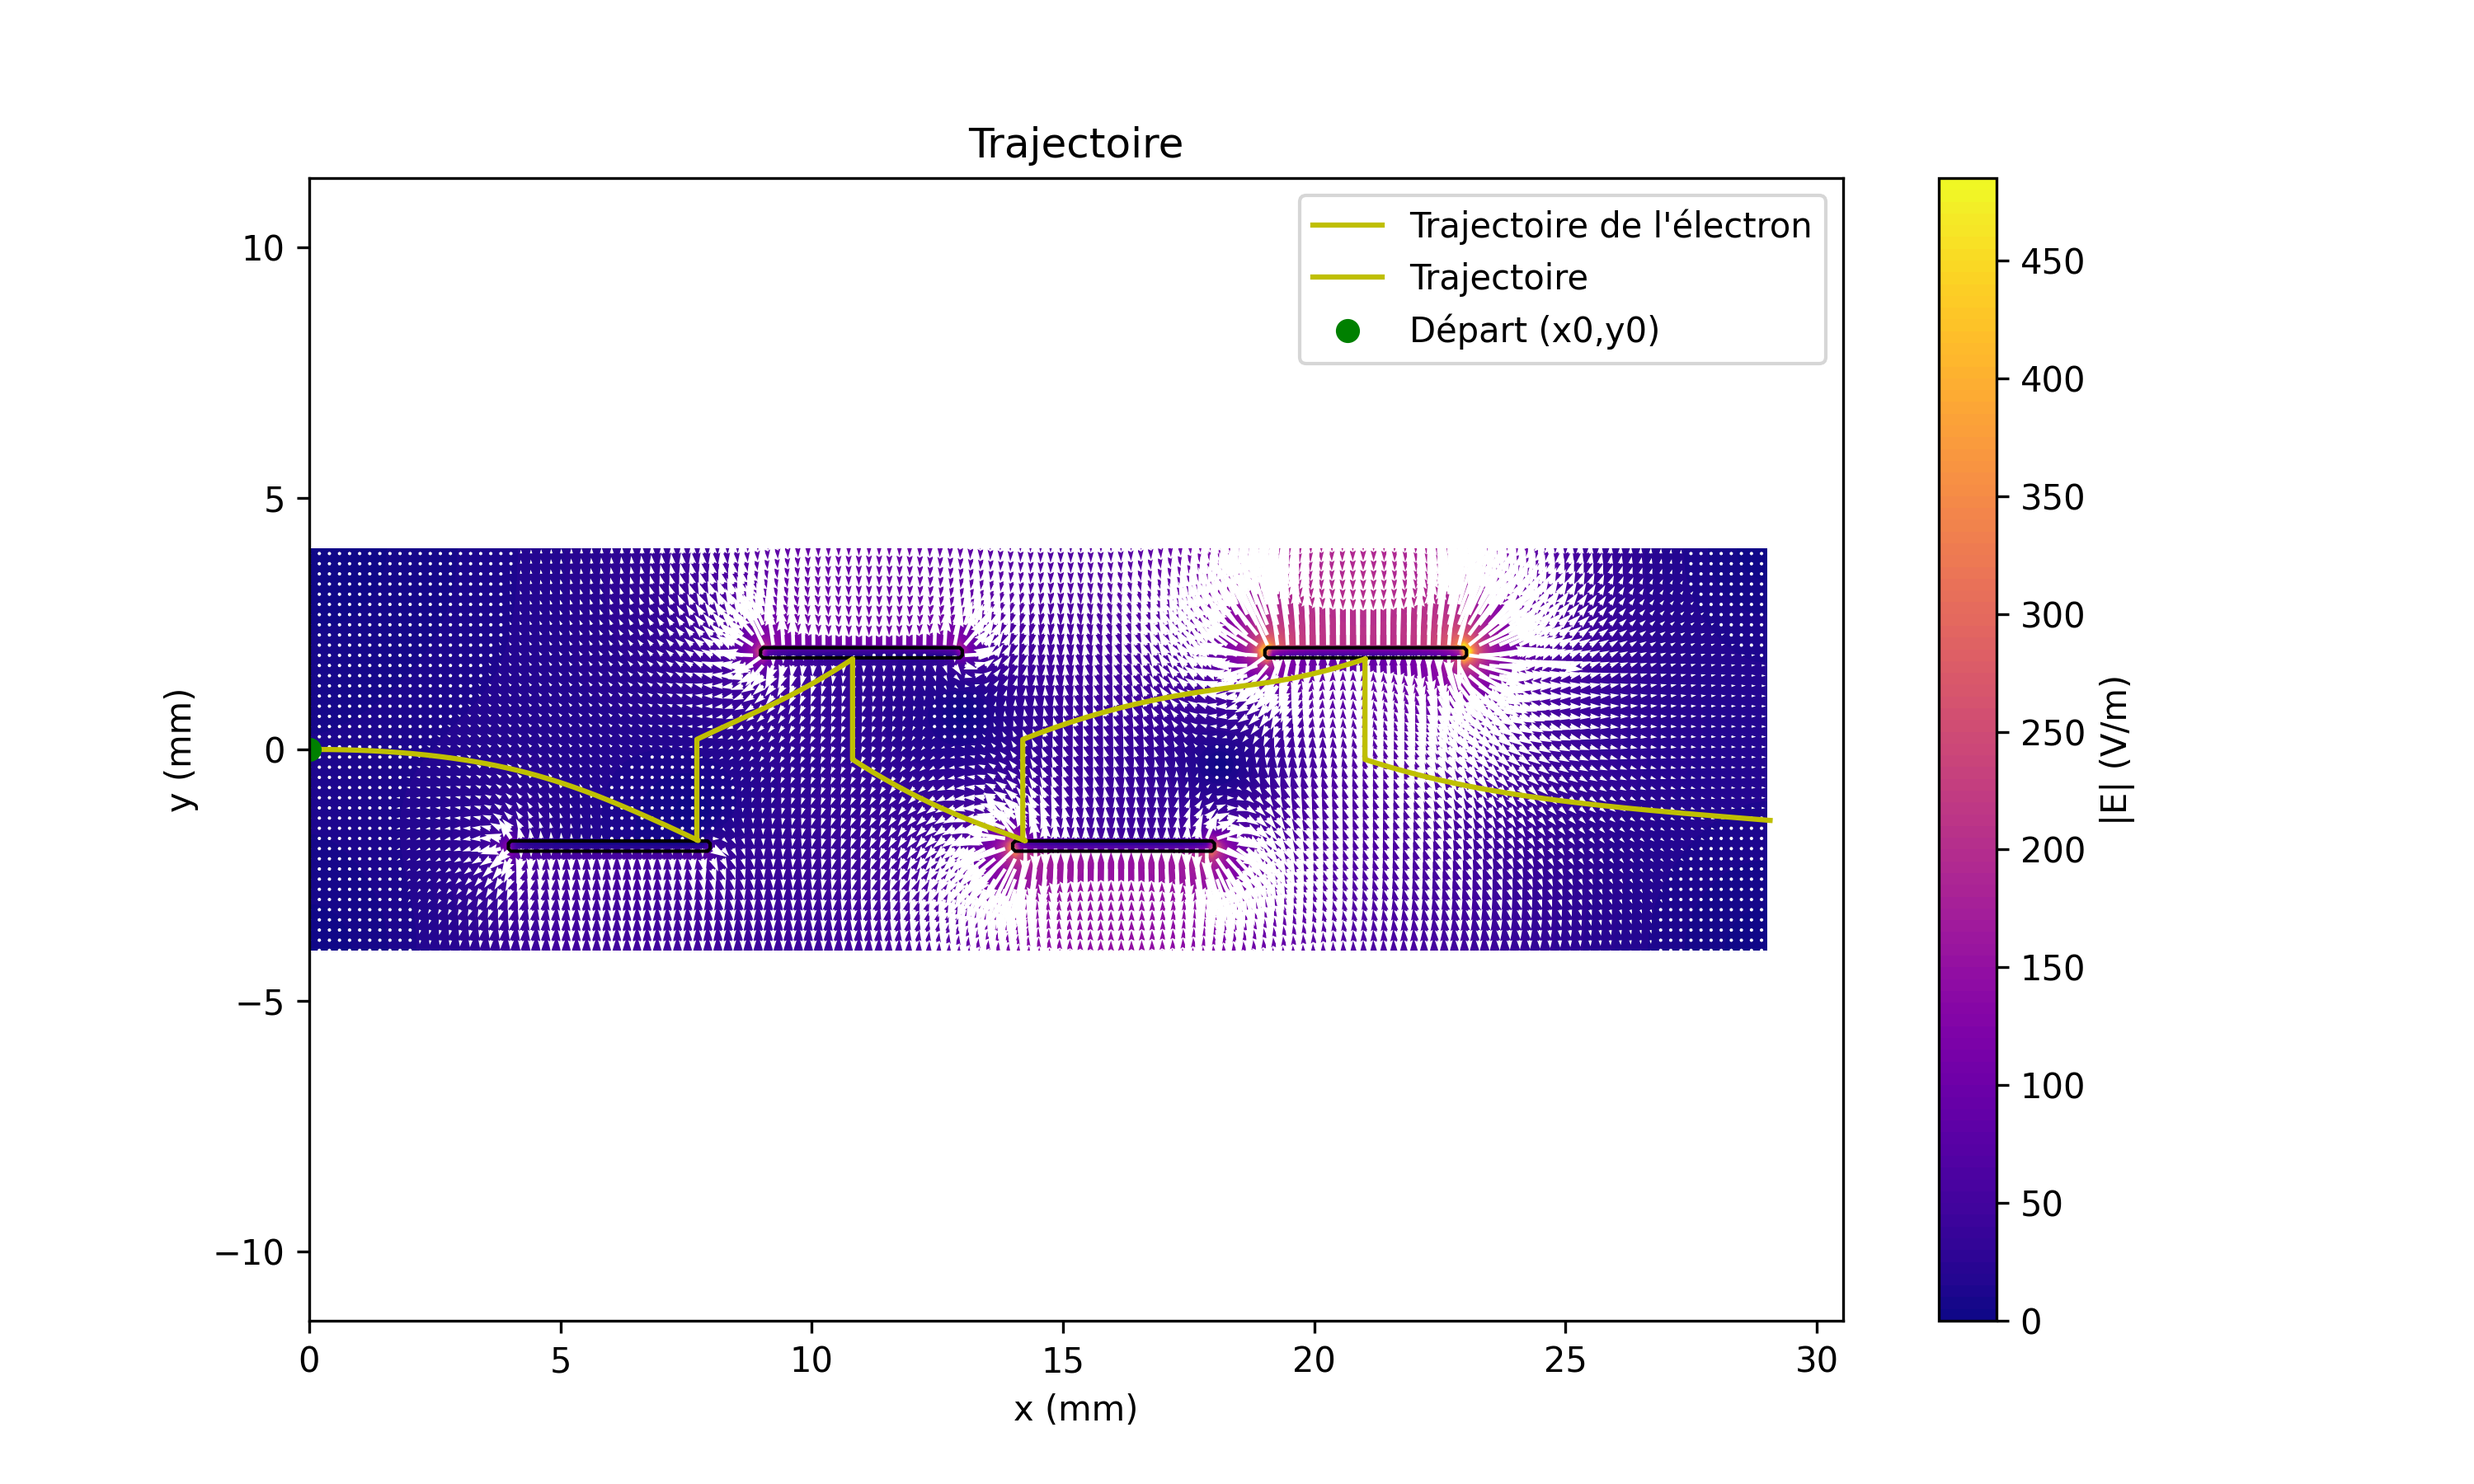
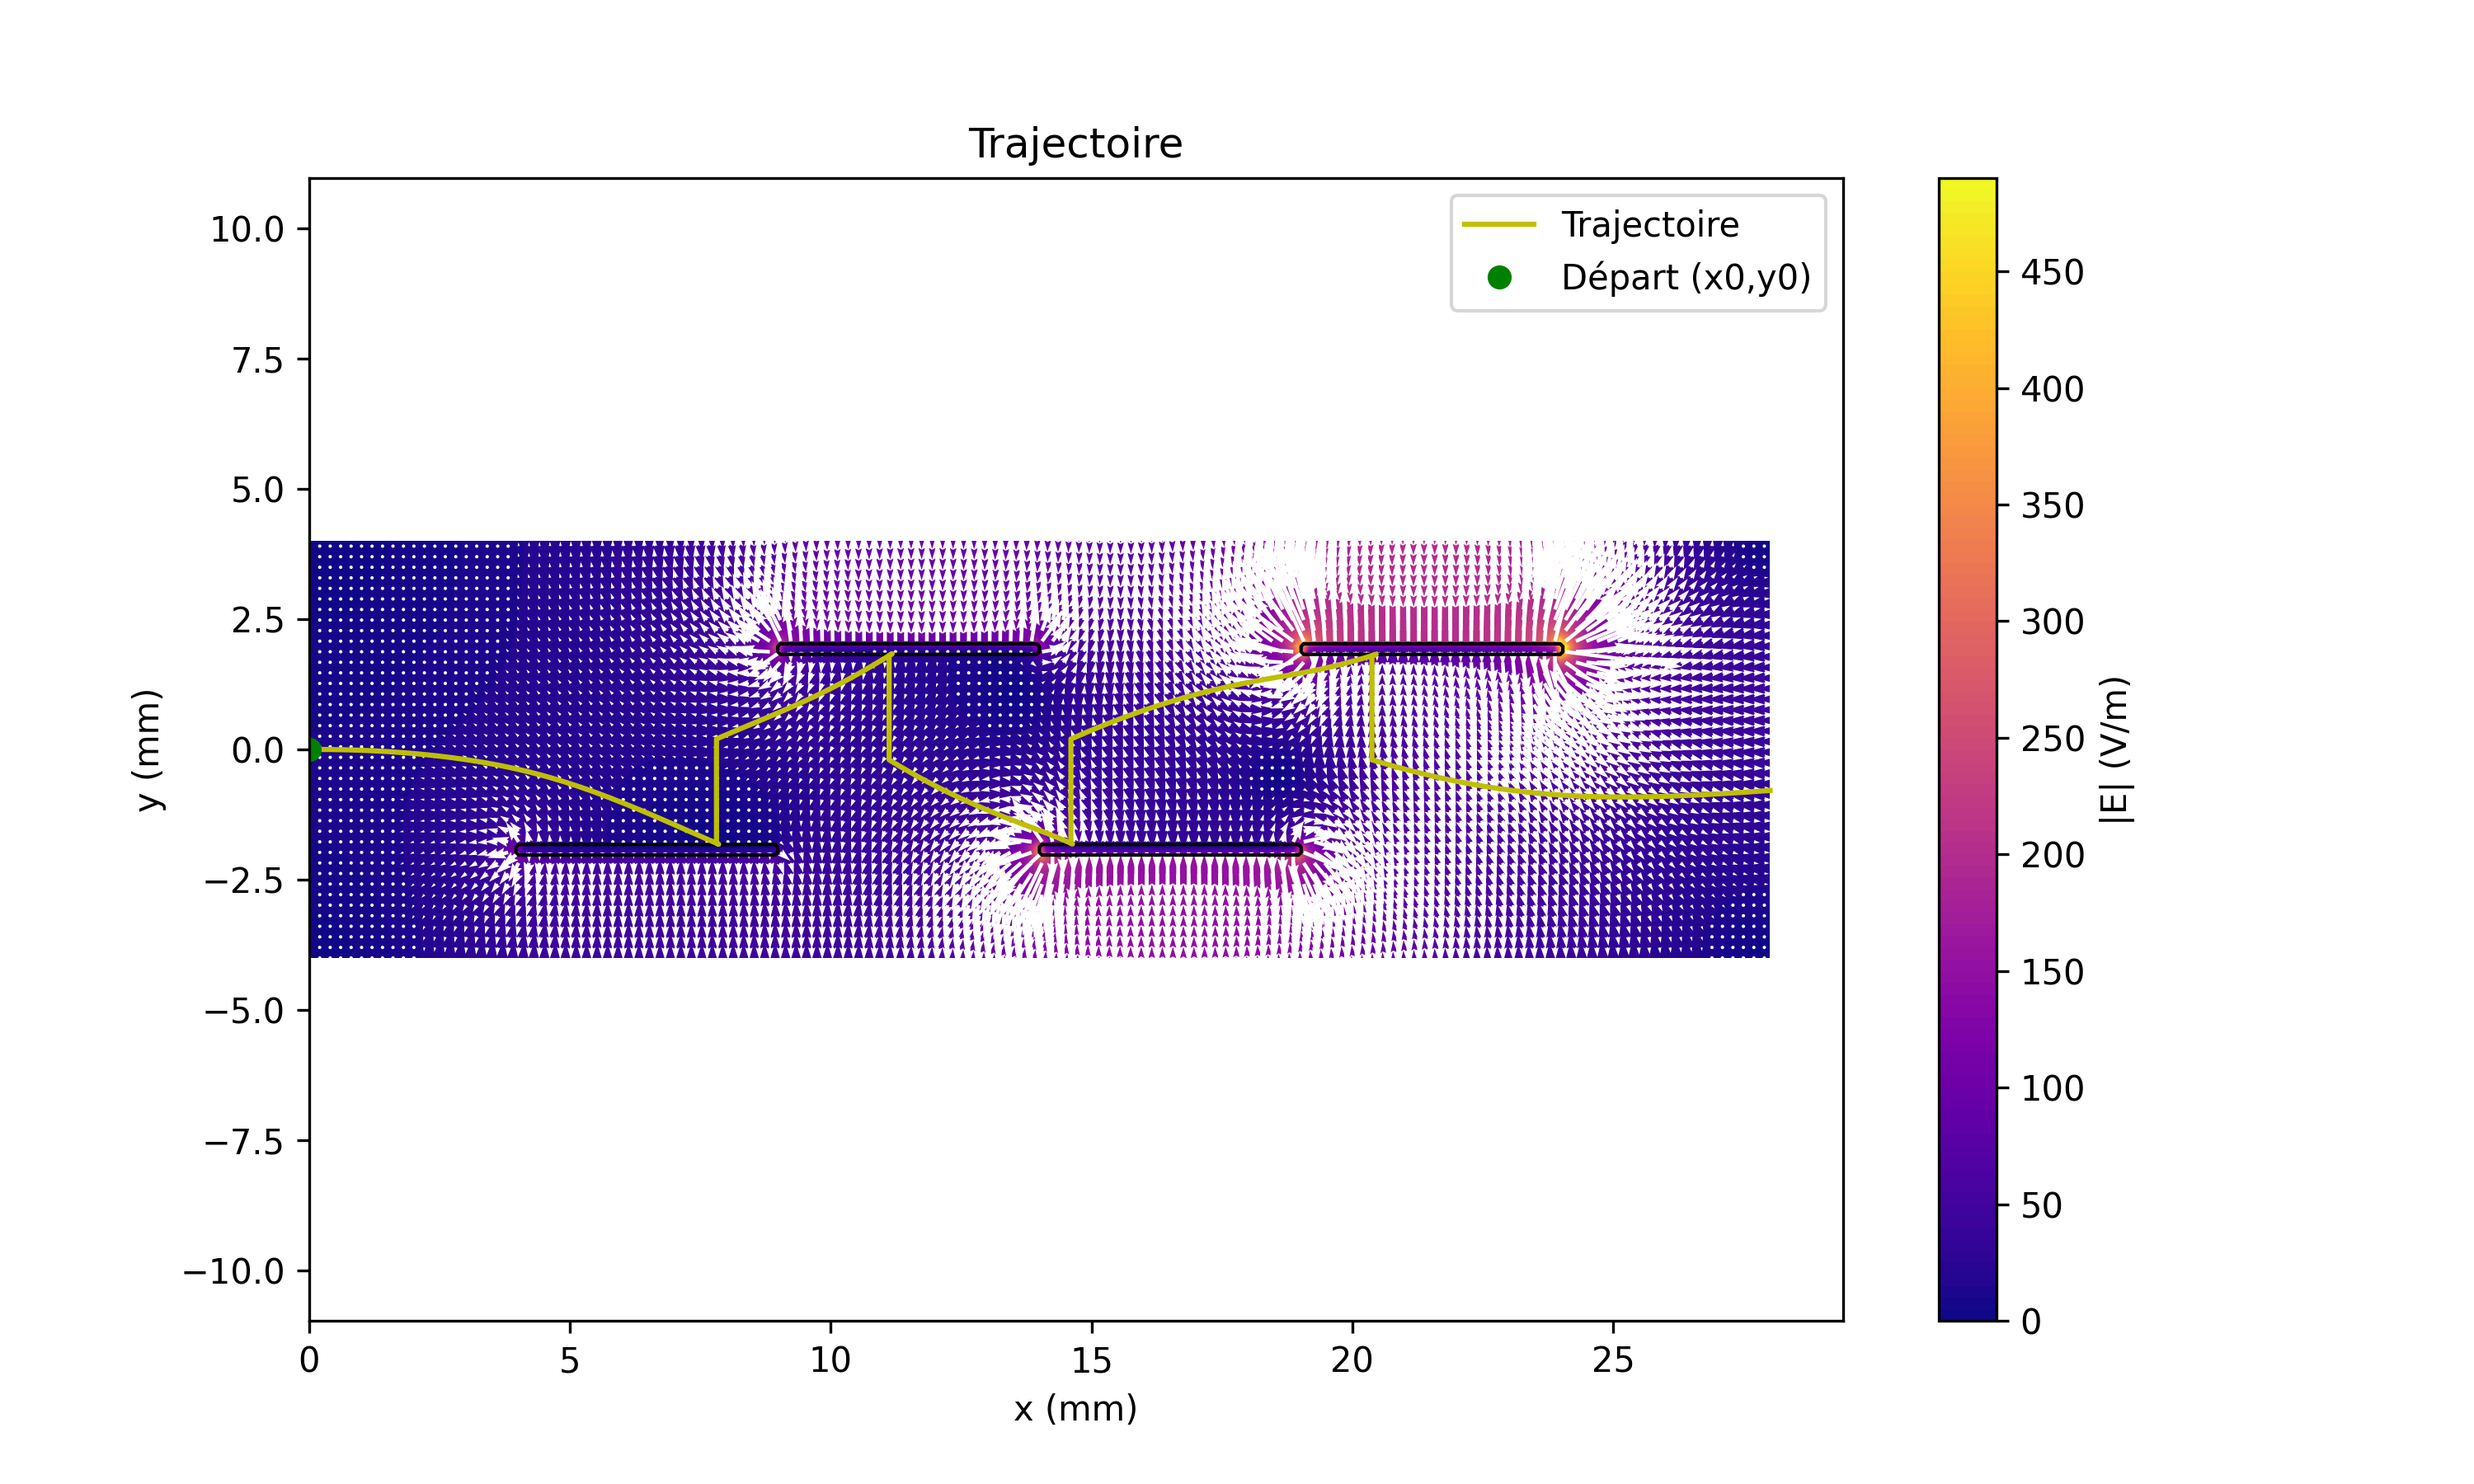
oik

diff --git a/question 3d/question3d.py b/question 3d/question3d.py
@@ -11,26 +11,22 @@ N = 12
 DX = 0.1
 
 LARGEUR = (2*A + (N+1)*(C/2) + (N-1)*(D/2))
-LX, LY = LARGEUR, F
+LX,LY = LARGEUR, F
 NX, NY = int(LX/DX), int(LY/DX)
 
 X = np.linspace(0, LX, NX)
 Y = np.linspace(-LY/2, LY/2, NY)
 X_GRID, Y_GRID = np.meshgrid(X, Y)
 
-V = np.zeros((NY,NX))
-BLOQUER = np.zeros((NY,NX), dtype=bool)
+V = np.zeros((NY, NX))
+BLOQUER = np.zeros((NY, NX), dtype=bool)
 
-PARAMETRES = A, B, C, D, E, F, N, DX, LX, LY, NX, NY, X, Y, X_GRID, Y_GRID, V, BLOQUER
+PARAMETRES = A,B,C,D,E,F,N,DX,LX,LY,NX,NY,X,Y,X_GRID,Y_GRID,V,BLOQUER
 
-DX, LX, LY = PARAMETRES[7:10]
-
-X_GRID, Y_GRID, V, BLOQUER = PARAMETRES[14:18]
-
-V, BLOQUER = question3d_fct.placer_dynodes_haut(V, BLOQUER, PARAMETRES)
 V, BLOQUER = question3d_fct.placer_dynodes_bas(V, BLOQUER, PARAMETRES)
+V, BLOQUER = question3d_fct.placer_dynodes_haut(V, BLOQUER, PARAMETRES)
 
-RES, BLOQUER = question3d_fct.relaxation(V, BLOQUER, PARAMETRES, variation=1e-3, max_iter=4000)
+RES, BLOQUER = question3d_fct.relaxation(V, BLOQUER, PARAMETRES, variation=1e-5, max_iter=10000)
 
 EX, EY, E_NORM = question3d_fct.champ_elec(RES, PARAMETRES)[0:5]
 
@@ -43,18 +39,17 @@ IT_MAX = 50000
 
 traj_x, traj_y = question3d_fct.position_el_rebond(X0, Y0, VX0, VY0, EX, EY, DT, IT_MAX, PARAMETRES)
 
+
 fig, axe = plt.subplots(figsize=(10, 6))
 
 CP = axe.contourf(X_GRID, Y_GRID, E_NORM, levels=100, cmap='plasma')
+
 plt.colorbar(CP, label="|E| (V/m)")
 
 SAUT = 2
+"""
 axe.quiver(X_GRID[::SAUT, ::SAUT], Y_GRID[::SAUT, ::SAUT], EX[::SAUT, ::SAUT],
-            EY[::SAUT, ::SAUT], color='white', scale=6000)
-
-
-line, = axe.plot([], [], 'y-', label="Trajectoire de l'électron")
-point, = axe.plot([], [], 'go')
+               EY[::SAUT, ::SAUT], color='white', scale=6000)
 
 axe.set_xlim(0, LX)
 axe.set_ylim(-LY/2, LY/2)
@@ -63,15 +58,7 @@ axe.set_ylabel("y (mm)")
 axe.set_title("Animation de la trajectoire de l'électron")
 axe.legend()
 axe.axis('equal')
-
-def update(frame):
-    """
-    Met à jour la position de l'électron pour chaque step
-    """
-    line.set_data(traj_x[:frame], traj_y[:frame])  # Trace la trajectoire jusqu'au frame courant
-    point.set_data(traj_x[frame-1], traj_y[frame-1])  # Place le point sur la position actuelle
-    return line, point
-
+"""
 #-------------------------------affichage de la trajectoire x(t)-------------------------------#
 
 plt.contourf(X_GRID, Y_GRID, E_NORM, levels=100, cmap='plasma')
@@ -79,6 +66,9 @@ plt.contour(X_GRID, Y_GRID, BLOQUER, levels=[0.5], colors='black', linewidths=1)
 
 SAUT = 2
 
+plt.quiver(X_GRID[::SAUT, ::SAUT], Y_GRID[::SAUT, ::SAUT],
+        EX[::SAUT, ::SAUT], EY[::SAUT, ::SAUT],
+        color='white', scale=6000)
 plt.plot(traj_x, traj_y, 'y-', label="Trajectoire")
 plt.plot(X0, Y0, 'go', label="Départ (x0,y0)")
 plt.xlabel("x (mm)")
@@ -86,7 +76,7 @@ plt.ylabel("y (mm)")
 plt.title("Trajectoire")
 plt.legend()
 plt.axis("equal")
-plt.savefig("Question3d)_trajectoire.png", dpi=300)
+plt.savefig("Question3c)_trajectoire.png", dpi=300)
 plt.show()
 
 print("Position finale :", traj_x[-1], traj_y[-1])

diff --git a/question 3c/question3c.py b/question 3c/question3c.py
@@ -6,7 +6,7 @@ import numpy as np
 import matplotlib.pyplot as plt
 import question3c_fct
 
-A, B, C, D, E, F = 4, 2, 6, 4, 0.2, 8
+A, B, C, D, E, F = 4, 2, 4, 6, 0.2, 8
 N = 4
 DX = 0.1
 
@@ -21,7 +21,7 @@ X_GRID, Y_GRID = np.meshgrid(X, Y)
 V = np.zeros((NY, NX))
 BLOQUER = np.zeros((NY, NX), dtype=bool)
 
-PARAMETRES = A,B,D,C,E,F,N,DX,LX,LY,NX,NY,X,Y,X_GRID,Y_GRID,V,BLOQUER
+PARAMETRES = A,B,C,D,E,F,N,DX,LX,LY,NX,NY,X,Y,X_GRID,Y_GRID,V,BLOQUER
 
 V, BLOQUER = question3c_fct.placer_dynodes_bas(V, BLOQUER, PARAMETRES)
 V, BLOQUER = question3c_fct.placer_dynodes_haut(V, BLOQUER, PARAMETRES)
@@ -49,9 +49,6 @@ SAUT = 2
 axe.quiver(X_GRID[::SAUT, ::SAUT], Y_GRID[::SAUT, ::SAUT], EX[::SAUT, ::SAUT],
                EY[::SAUT, ::SAUT], color='white', scale=6000)
 
-line, = axe.plot([], [], 'y-', label="Trajectoire de l'électron")
-point, = axe.plot([], [], 'go')
-
 axe.set_xlim(0, LX)
 axe.set_ylim(-LY/2, LY/2)
 axe.set_xlabel("x (mm)")
@@ -59,14 +56,6 @@ axe.set_ylabel("y (mm)")
 axe.set_title("Animation de la trajectoire de l'électron")
 axe.legend()
 axe.axis('equal')
-
-def update(frame):
-    """
-    Met à jour la position de l'électron pour chaque step
-    """
-    line.set_data(traj_x[:frame], traj_y[:frame])  # Trace la trajectoire jusqu'au frame courant
-    point.set_data(traj_x[frame-1], traj_y[frame-1])  # Place le point sur la position actuelle
-    return line, point
 
 #-------------------------------affichage de la trajectoire x(t)-------------------------------#
 

diff --git a/question 3c/question3c_fct.py b/question 3c/question3c_fct.py
@@ -193,7 +193,6 @@ def contact_dyn_bas(x_new, y_new, x_old, y_old, parametres):
         - Renvoie un booléen pour savoir si il y a contact avec les dynode
           et renvoie la position de contact si True
     """
-
     f, n = parametres[5:7]
     lx = parametres[8]
 
